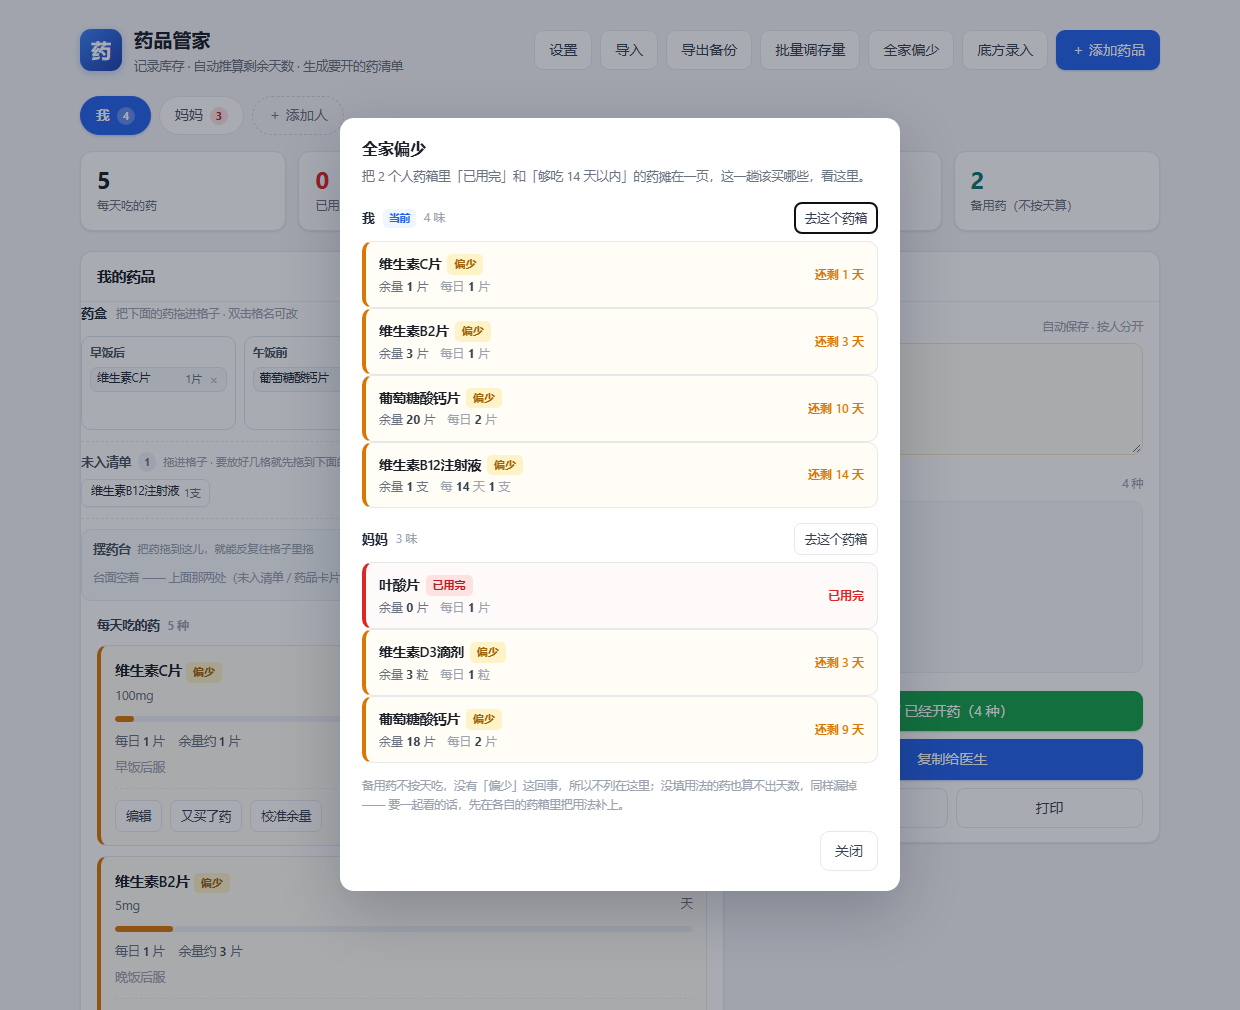
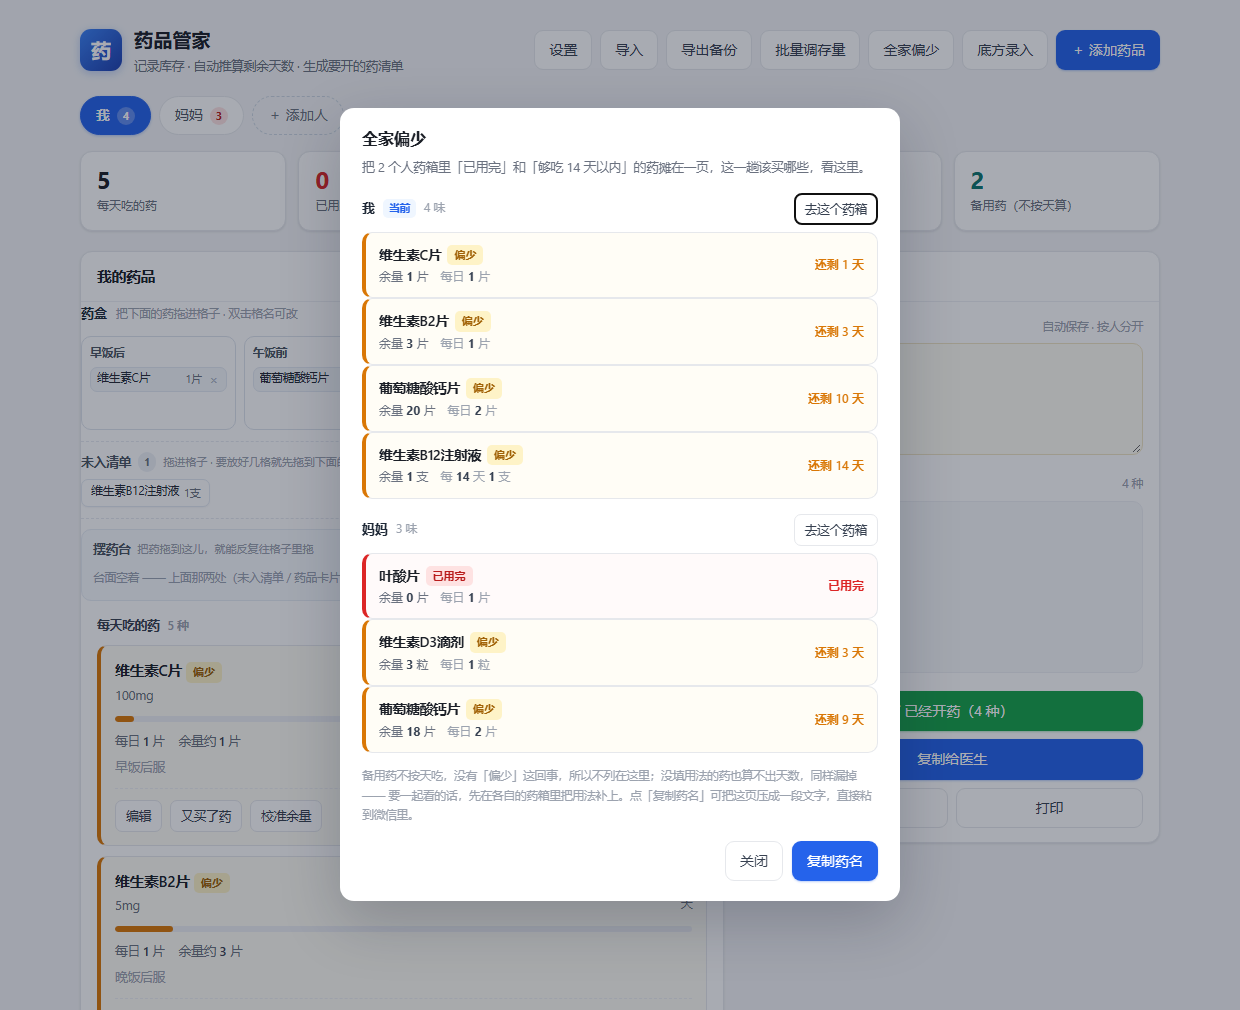
全家偏少加「复制药名」：一键把这一趟要补的药摊成一段文字，粘进微信

Changed region(s): [[0.2758, 0.0921, 0.7355, 0.8287], [0.2758, 0.8287, 0.7355, 0.8901]]

diff --git a/index.html b/index.html
@@ -1064,6 +1064,8 @@ dialog::backdrop{background:rgba(15,23,42,.36)}
   </div>
   <div class="dlg-f">
     <button type="button" class="btn ghost" id="btnFamClose">关闭</button>
+    <!-- 2026-10-23 用户要求：把缺少的药名一键复制出去，粘到微信里 -->
+    <button type="button" class="btn primary" id="btnFamCopy">复制药名</button>
   </div>
 </dialog>
 
@@ -2931,13 +2933,17 @@ function renderFam(){
     : '把 ' + n + ' 个人药箱里「已用完」和「够吃 ' + settings.alertDays + ' 天以内」的药摊在一页，'
       + '这一趟该买哪些，看这里。';
 
+  const copyBtn = $('#btnFamCopy');
+
   if(!r.total){
     list.innerHTML = '<div class="fam-none">'
       + (n ? '全家 ' + n + ' 个人的药都还够吃，这些天没有偏少的。' : '还没有添加人。')
       + '</div>';
     note.textContent = '';
+    copyBtn.disabled = true;      // 没东西可复制就别让人点了空手
     return;
   }
+  copyBtn.disabled = false;
 
   list.innerHTML = r.groups.map(function(g){
     return '<div class="fam-grp">'
@@ -2952,7 +2958,43 @@ function renderFam(){
   }).join('');
 
   note.textContent = '备用药不按天吃，没有「偏少」这回事，所以不列在这里；'
-    + '没填用法的药也算不出天数，同样漏掉 —— 要一起看的话，先在各自的药箱里把用法补上。';
+    + '没填用法的药也算不出天数，同样漏掉 —— 要一起看的话，先在各自的药箱里把用法补上。'
+    + '点「复制药名」可把这页压成一段文字，直接粘到微信里。';
+}
+
+/* 一键复制：把这一页的药名压成一段纯文字（用户 2026-10-23 要求「复制出来粘到微信里」）。
+   口径必须跟页面完全一致 —— 照样走 familyLow()，不在这里另筛一遍，否则页面上和复制出去的两份会不一样。
+   格式照「就诊准备」那段的路子：第一行标题带日期和总数，之后按人分段、段内编号。
+   括号里的「已用完 / 还剩 N 天」是给收消息的人看紧迫度的，不影响搜药名。 */
+function famCopyText(){
+  const r = familyLow();
+  if(!r.total) return '';
+  const multi = people.length > 1;         // 只有一个人时不写「【我】」，跟页面副标题一个道理
+  const L = ['全家偏少的药（' + todayStr() + '）：共 ' + r.total + ' 味'];
+  r.groups.forEach(function(g){
+    if(multi) L.push('【' + g.p.name + '】');
+    g.rows.forEach(function(x, i){
+      const tail = (x.lv === 'out') ? '已用完' : ('还剩 ' + fmtDays(x.dl) + ' 天');
+      L.push((i + 1) + '. ' + x.m.name + '（' + tail + '）');
+    });
+  });
+  return L.join('\n');
+}
+
+function copyFam(){
+  const txt = famCopyText();
+  if(!txt) return;
+  const btn = $('#btnFamCopy');
+  // 恢复用的是固定文案，不是「点之前那一下的文案」—— 连点两次时后者会记成「已复制 ✓」，再也回不去
+  const done = function(){
+    btn.textContent = '已复制 ✓';
+    setTimeout(function(){ btn.textContent = '复制药名'; }, 1400);
+  };
+  if(navigator.clipboard && navigator.clipboard.writeText){
+    navigator.clipboard.writeText(txt).then(done, function(){ fallbackCopy(txt, done); });
+  } else {
+    fallbackCopy(txt, done);
+  }
 }
 
 function openFam(){
@@ -4081,6 +4123,7 @@ $('#btnBulk').addEventListener('click', openBulk);
 // 全家偏少：只读聚合页。点「去这个药箱」= 切到那个人，顺手把弹窗关掉
 $('#btnFam').addEventListener('click', openFam);
 $('#btnFamClose').addEventListener('click', function(){ $('#dlgFam').close(); });
+$('#btnFamCopy').addEventListener('click', copyFam);
 $('#famList').addEventListener('click', function(e){
   const b = e.target.closest('[data-goto]');
   if(!b) return;

diff --git a/_check/test_fam.py b/_check/test_fam.py
@@ -205,13 +205,81 @@ PROBE = r"""
      groups()[0].querySelector('.fam-c').textContent);
   ck('补足的那味不见了', allNames().indexOf('甲三日片') < 0, allNames().join('、'));
 
+  /* ---------------- 12. 一键复制药名（粘到微信里）----------------
+     用户 2026-10-23：「下面还应该有一个一键复制 就能把缺少的药名复制出来 用户可以粘贴到微信里」
+     钉三件事：① 复制出去的内容跟页面口径一致（同一份 familyLow()，不多不少）；
+               ② 是给人读的纯文字（标题带日期、按人分段、段内编号），不是给机器吃的 JSON；
+               ③ 真的交给剪贴板了，而且按钮有反馈；没东西可复制时按钮禁用。 */
+  fixture(); openFam();
+  var btn = q('#btnFamCopy');
+  ck('聚合页底部有「复制药名」按钮', !!btn && /复制药名/.test(btn.textContent),
+     btn ? btn.textContent : '(没有)');
+  ck('有偏少时可点', !!btn && btn.disabled === false, btn ? btn.disabled : null);
+
+  var T = famCopyText();
+  var lines = T.split('\n');
+  ck('首行带日期和总味数', /^全家偏少的药（\d{4}-\d{2}-\d{2}）：共 5 味$/.test(lines[0]), lines[0]);
+  ck('多个人时按人分段（【甲】【乙】）',
+     lines.indexOf('【甲】') >= 0 && lines.indexOf('【乙】') >= 0, lines.join(' | '));
+  var iJia = lines.indexOf('【甲】');
+  ck('段内编号从 1 起', /^1\. /.test(lines[iJia + 1]), lines[iJia + 1]);
+  ck('药名后面带紧迫度（已用完 / 还剩 N 天）',
+     /^1\. 甲空瓶片（已用完）$/.test(lines[iJia + 1]) &&
+     /^2\. 甲三日片（还剩 3 天）$/.test(lines[iJia + 2]),
+     lines[iJia + 1] + ' / ' + lines[iJia + 2]);
+  // 口径一致：把「1. 」「（已用完）」这些包装剥掉，剩下的药名得和页面上那一列一模一样
+  var txtNames = lines.filter(function(s){ return /^\d+\. /.test(s); }).map(function(s){
+    return s.replace(/^\d+\. /, '').replace(/（[^）]*）$/, '');
+  });
+  ck('复制出去的和页面上列的是同一批药名（不多不少）',
+     txtNames.slice().sort().join('、') === allNames().slice().sort().join('、'),
+     txtNames.join('、') + ' vs ' + allNames().join('、'));
+  ck('没把「充足 / 备用药 / 没填用法」的混进去',
+     txtNames.indexOf('甲六十片') < 0 && txtNames.indexOf('甲备用药') < 0 &&
+     txtNames.indexOf('甲没用法片') < 0, txtNames.join('、'));
+
+  // 点一下：把 navigator.clipboard 换掉，看交给它的是不是同一段文字
+  var copied = null, stubbed = false;
+  try{
+    Object.defineProperty(navigator, 'clipboard', { configurable: true,
+      value: { writeText: function(t){ copied = t; return Promise.resolve(); } } });
+    stubbed = true;
+  } catch(e){}
+  q('#btnFamCopy').click();
+  ck('点了真的把文字交给剪贴板', stubbed && copied === T,
+     stubbed ? (copied ? String(copied).split('\n')[0] : '(什么都没收到)') : '替换不了剪贴板');
+
+  // 一个人时不写「【我】」（跟副标题那条同一个道理）
+  people.length = 0;
+  people.push(who('只有我', [ mk('孤单三日片', { stock: 2 }) ]));
+  currentId = people[0].id;
+  syncMeds(); save(); render(); openFam();
+  var T1 = famCopyText();
+  ck('只有一个人时不写「【…】」分段', T1.indexOf('【') < 0, T1.replace(/\n/g, ' | '));
+  ck('一个人时也带编号', /^1\. 孤单三日片（还剩 2 天）$/.test(T1.split('\n')[1]),
+     T1.split('\n')[1]);
+
+  // 全家都不偏少 → 没有可复制的
+  people.length = 0;
+  people.push(who('甲', [ mk('都够吃片', { stock: 90 }) ]));
+  currentId = people[0].id;
+  syncMeds(); save(); render(); openFam();
+  ck('全家都不偏少时没有可复制的内容', famCopyText() === '', JSON.stringify(famCopyText()));
+  ck('这时候「复制药名」是禁用的', q('#btnFamCopy').disabled === true,
+     q('#btnFamCopy').disabled);
+
   function finish(){
     var pre = document.createElement('pre');
     pre.id = '__T';
     pre.textContent = JSON.stringify(R);
     document.body.appendChild(pre);
   }
-  finish();
+  // 「已复制 ✓」是 Promise 回调里改的（微任务之后），同步序列化抓不到 → 放到定时器里收尾
+  setTimeout(function(){
+    ck('复制成功后按钮短暂变成「已复制 ✓」', q('#btnFamCopy').textContent === '已复制 ✓',
+       q('#btnFamCopy').textContent);
+    finish();
+  }, 80);
 })();
 """
 

diff --git a/README.md b/README.md
@@ -157,6 +157,22 @@
 | 怎么排 | 按人分组；组内先「已用完」，再按剩余天数从少到多 |
 | 每行右边 | 「已用完」或「还剩 N 天」 |
 | 去这个药箱 | 直接切到那个人，关掉这页就能接着编辑 / 开药 |
+| 复制药名 | 把这一页压成一段纯文字，粘到微信里发给家人 / 药店 |
+
+「复制药名」出来的就是下面这个样子 —— 标题带日期和总数，按人分段、段内编号，
+药名后头那个括号是紧迫度，方便对方先买急的：
+
+```text
+全家偏少的药（2026-10-23）：共 5 味
+【我】
+1. 维生素C片（还剩 1 天）
+2. 维生素B2片（还剩 3 天）
+【妈妈】
+1. 叶酸片（已用完）
+2. 维生素D3滴剂（还剩 3 天）
+```
+
+> 只有一个人时不写「【…】」分段，直接从编号开始；全家都不偏少时这个按钮是灰的。
 
 > **备用药不列** —— 它不按天吃，没有「剩几天」这回事。
 > **没填用法的也不列** —— 算不出天数，硬塞进来只会误导。这两条那页底部也写着。
@@ -513,7 +529,7 @@ tools/rx_local/rx_local.py  可选的「本地解析」工具：Windows 自带 O
 _check/test_rxcap.py      自检脚本 —— 无头 Chrome 跑 306 项断言（口径、入库、文案、批量调存量、中间弹窗、底方解析、#rx= 链接跨实现往返、助手说明与「不认照片」防回潮、真药名自查、「添加药品」必填口径、底方「是谁的」+ 重复药去重、底方「对账依据」必须可见、**一次原生弹窗都不许有**，以及「README 说的和事实一致」）
 _check/test_prn.py        备用药那一类的自检 —— 91 条（每天吃 / 备用药分得开、备用药不按天扣、不进续方清单、不进批量调存量、表单必填口径两套、改类型时余量不被改写、导入导出 kind 不丢）
 _check/test_box.py        药盒的自检 —— 170 条（默认 3 格、格数 1~7、格名可改、**真把 PointerEvent 打进页面**验拖拽全链路、跨格是搬不是复制、未入清单的筛选与双向拖拽、摆药台连拖三次能摆满三格、药名折行的真实布局高度、备用药拖不进、删药清盒、按人分开、导出导入不丢、脏数据清洗、确认框真的弹/按钮真的能点/Esc 与点遮罩都算取消、以及那条"类名撞车"体检）
-_check/test_fam.py        全家偏少的自检 —— 36 条（筛选阈值、排除备用药与没填用法的、按人分组、已用完排最前、去这个药箱能切人、单人不写"1 个人"、空态、换人后数据不串）
+_check/test_fam.py        全家偏少的自检 —— 50 条（筛选阈值、排除备用药与没填用法的、按人分组、已用完排最前、去这个药箱能切人、单人不写"1 个人"、空态、换人后数据不串、一键复制的文字与页面口径一致且真的进了剪贴板）
 _check/test_rx_local.py   上面那个工具的纯函数自检 —— 67 项，不需要图片、不需要 OCR 语言包
 _check/shot.py            重新生成 docs/ 里的截图
 docs/                     README 用的截图（每张都在上面被引用；没有没人看的图）
@@ -531,7 +547,7 @@ LICENSE                   MIT，署名「人间小土鸡」
 python _check/test_rxcap.py       # 网页本体：306 项
 python _check/test_prn.py         # 备用药那一类：91 项
 python _check/test_box.py         # 药盒 + 未入清单 + 摆药台 + 拖拽 + 折行 + 弹窗：170 项
-python _check/test_fam.py         # 全家偏少聚合页：36 项
+python _check/test_fam.py         # 全家偏少聚合页：50 项
 python _check/test_rx_local.py    # 本地解析工具：67 项（纯函数，跑得快）
 ```
 
